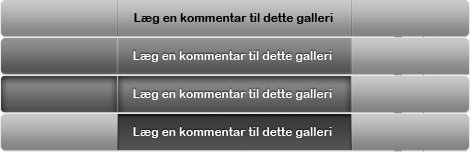
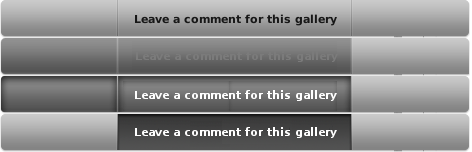
critic mostly english except for blog

diff --git a/liboh/plugins/ogre/data/chrome/ui/screens/critique_welcome.html b/liboh/plugins/ogre/data/chrome/ui/screens/critique_welcome.html
@@ -1,4 +1,4 @@
-<p> Oplev gallerier som andre af museets g&aelig;ster har lavet. Hvis du har lyst, kan du l&aelig;gge en kommentar til dem. </p>
+<p> Explore galleries created by other visitors.  You can also read comments, and add your own.  </p>
 <ul id="modal-screen-buttons">
     
   <li><a href="javascript:critiqueMode(1);"><img src="images/start.png" /> </a> </li>
